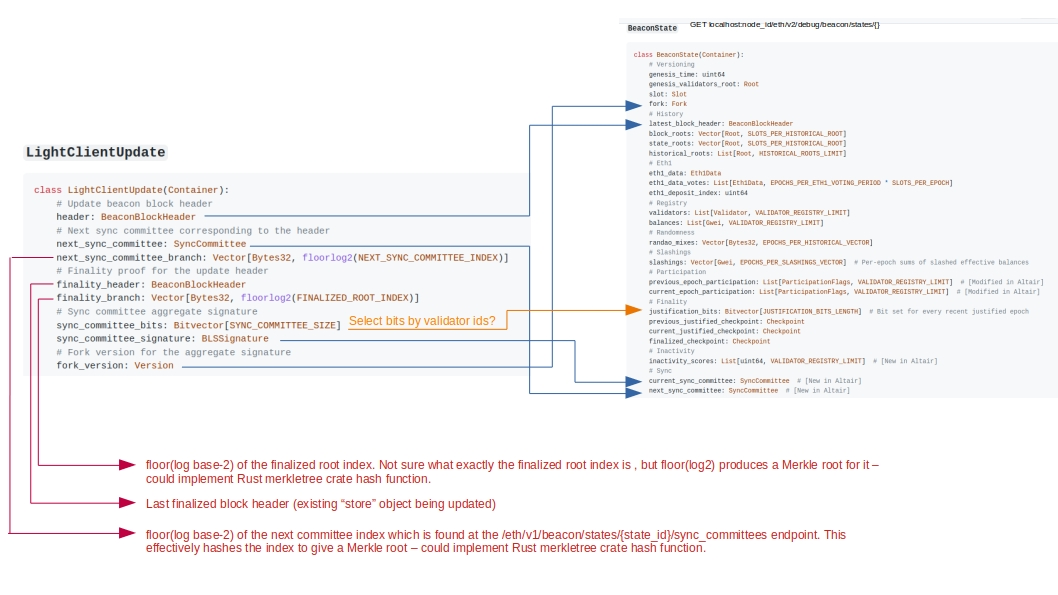
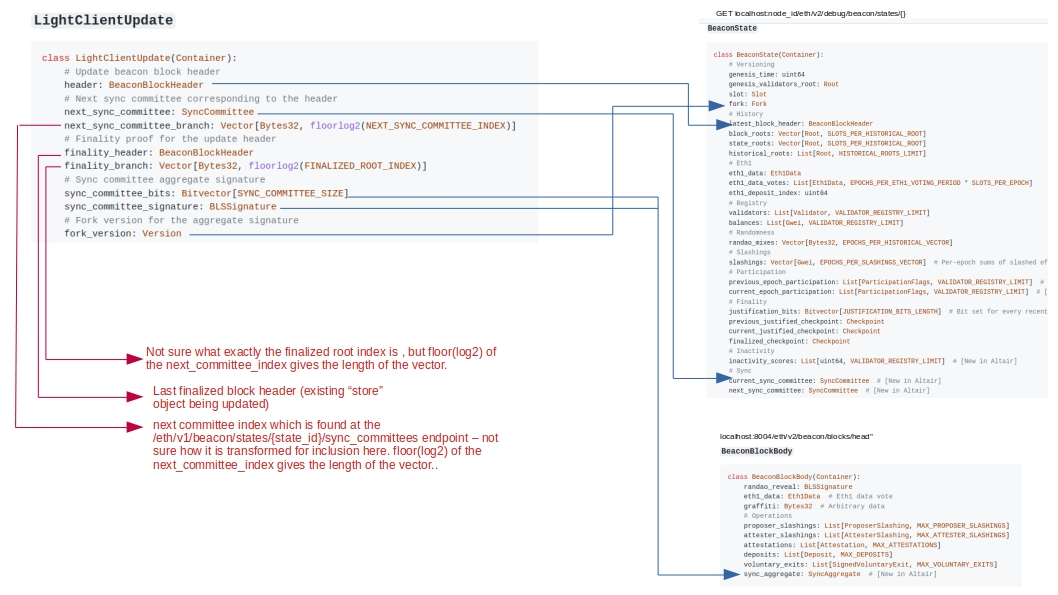
get syncaggregate from blockbody

diff --git a/src/build_objects.rs b/src/build_objects.rs
@@ -64,7 +64,7 @@ pub fn update_store(snapshot: LightClientSnapshot, update: Option<LightClientUpd
 
 
 
-pub fn get_update(state: &serde_json::Value, current_snapshot: &LightClientSnapshot)->LightClientUpdate{
+pub fn get_update(state: &serde_json::Value, current_snapshot: &LightClientSnapshot, beacon_block_body: &serde_json::Value )->LightClientUpdate{
 
     // new header from state object
     let _slot = state["data"]["latest_block_header"]["slot"].to_string();
@@ -112,13 +112,23 @@ pub fn get_update(state: &serde_json::Value, current_snapshot: &LightClientSnaps
         next_sync_committee: next_sync_committee,
     };
 
+
+    // get sync_aggregate from beacon block body
+    // parse to vector of u8s
+    let _sync_committee_bits = beacon_block_body["data"]["message"]["body"]["sync_aggregate"]["sync_committee_bits"].to_string();
+    let _trimmed = &_sync_committee_bits.replace("\"", "");
+    let sync_committee_bits: Vec<u8> = _trimmed.as_bytes().to_vec();
+    println!("Vec<u8>:{:?}", sync_committee_bits);
+
+    // get sync committee signature 
+    let sync_committee_signature = beacon_block_body["data"]["message"]["body"]["sync_aggregate"]["sync_committee_signature"].to_string();
+    println!("{}",sync_committee_signature);
     // other update vars from state obj
     let branch = vec![0,1,2,3,4,5]; //PLACEHOLDER
     let finality_header = current_header;
     let finality_branch =vec![0,1,2,3,4,5];//PLACEHOLDER
-    let sync_committee_bits = vec![0,1,2,3,4,5];//PLACEHOLDER
+    let sync_committee_bits = sync_committee_bits;
     let fork = state["data"]["fork"].to_string();
-    let sync_sig = &snapshot.next_sync_committee.aggregate_pubkey.to_string();
     let sync_pubkeys = &snapshot.next_sync_committee.pubkeys.to_string();
 
     // build update obj
@@ -129,10 +139,26 @@ pub fn get_update(state: &serde_json::Value, current_snapshot: &LightClientSnaps
         finality_header: finality_header,
         finality_branch: finality_branch,
         sync_committee_bits: sync_committee_bits,
-        sync_committee_signature: sync_sig.to_string(),
+        sync_committee_signature: sync_committee_signature,
         fork_version: fork,
     };
 
     return update
 
 }
+
+
+// class BeaconBlockBody(Container){
+    
+//     randao_reveal: BLSSignature
+//     eth1_data: Eth1Data  # Eth1 data vote
+//     graffiti: Bytes32  # Arbitrary data
+//     # Operations
+//     proposer_slashings: List[ProposerSlashing, MAX_PROPOSER_SLASHINGS]
+//     attester_slashings: List[AttesterSlashing, MAX_ATTESTER_SLASHINGS]
+//     attestations: List[Attestation, MAX_ATTESTATIONS]
+//     deposits: List[Deposit, MAX_DEPOSITS]
+//     voluntary_exits: List[SignedVoluntaryExit, MAX_VOLUNTARY_EXITS]
+//     sync_aggregate: SyncAggregate
+
+// }

diff --git a/src/main.rs b/src/main.rs
@@ -25,9 +25,10 @@ fn main(){
 }
 
 
-
-
 pub fn initialize(api_key: &str, node_id: &str)->LightClientStore{
+    // initialize() builds a snapshot and store object for the most recent finalized chackpoint
+    // the initial store object has no updates in the valid_updates field. This is
+    // populated by update()
     let state_id = "finalized".to_string();
     let current_state = query_node::get_full_state_object(&api_key, &node_id, &state_id);
     let current_snapshot = build_objects::make_snapshot(&current_state);
@@ -38,11 +39,15 @@ pub fn initialize(api_key: &str, node_id: &str)->LightClientStore{
 
 
 pub fn update(current_store: LightClientStore, api_key: &str, node_id: &str)->LightClientStore{
-    
+    // update takes the initial store object and fills the valid_updates field
+    // by querying the head of the chain. We can keep calling update() to 
+    // refresh new_store with up to dat information.
+
     let state_id = "head".to_string();
     let new_state = query_node::get_full_state_object(&api_key, &node_id, &state_id);
+    let beacon_block_body = query_node::get_block_body(&api_key, &node_id, &state_id);
     let new_snapshot = build_objects::make_snapshot(&new_state);
-    let update = build_objects::get_update(&new_state, &new_snapshot);
+    let update = build_objects::get_update(&new_state, &new_snapshot, &beacon_block_body);
     
     let new_store = build_objects::update_store(new_snapshot, Some(update));
 

diff --git a/src/types.rs b/src/types.rs
@@ -5,6 +5,11 @@ pub struct SyncCommittee {
     pub aggregate_pubkey: String,
   }
   
+pub struct SyncAggregate{
+    pub sync_committee_bits: Vec<u8>,
+    pub sync_committee_signature: String,
+}
+
 pub struct BeaconBlockHeader{
     pub slot: u32,
     pub proposer_index: u32,
@@ -36,7 +41,9 @@ pub struct LightClientUpdate{
     pub next_sync_committee_branch: Vec<i32>,
     pub finality_header: BeaconBlockHeader,
     pub finality_branch: Vec<i32>,
-    pub sync_committee_bits: Vec<i32>,
+    pub sync_committee_bits: Vec<u8>,
     pub sync_committee_signature: String,
     pub fork_version: String,
 }
+
+

diff --git a/src/query_node.rs b/src/query_node.rs
@@ -25,6 +25,13 @@ pub fn get_full_state_object(api_key: &str, node_id: &str, state_id: &str)->serd
     return state
 }
 
+pub fn get_block_body(api_key: &str, node_id: &str, state_id: &str)->serde_json::Value{
+    
+    let endpoint = format!("v2/beacon/blocks/{}",state_id);
+    let blockbody: serde_json::Value = http_requests::generic_request(&api_key, &endpoint, &node_id).unwrap();
+    
+    return blockbody
+}
 
 
 // pub fn get_block_header(api_key: &str, node_id: &str, state_id: &str)->BeaconBlockHeader{
